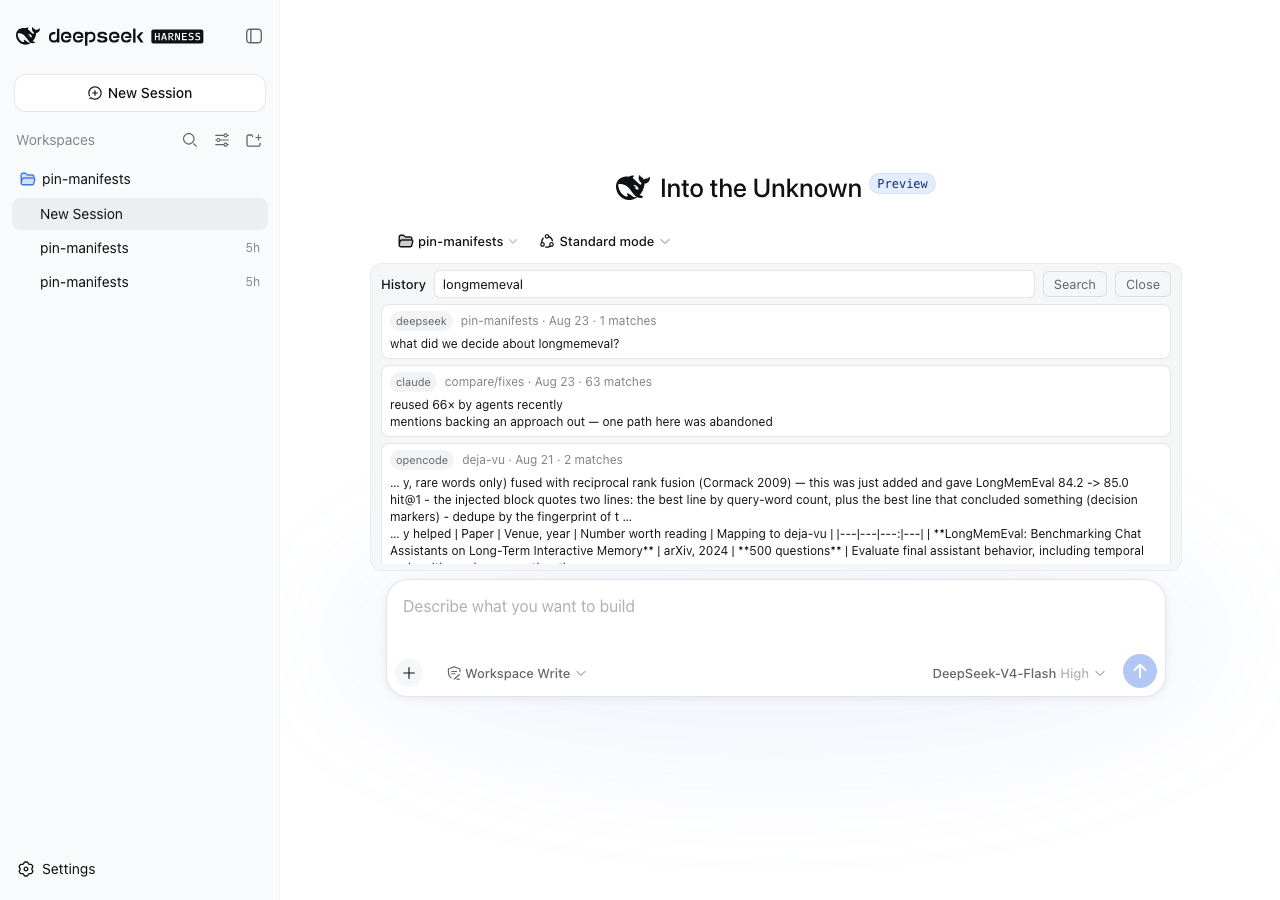
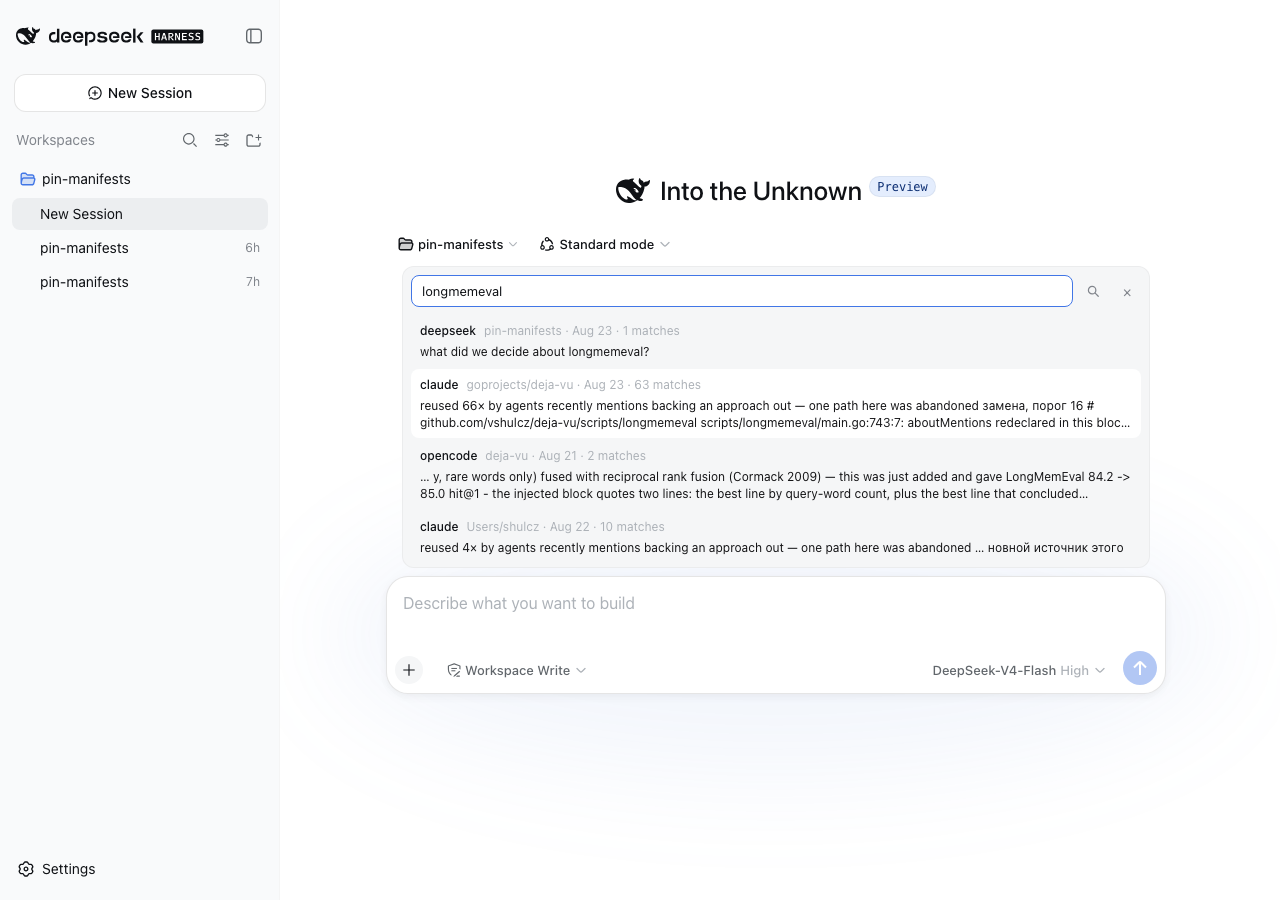
fix(dsh): the strip takes the composer's own width

diff --git a/packages/dsh-deja/client.js b/packages/dsh-deja/client.js
@@ -21,96 +21,156 @@ window.__ModuleLoader__.load({
     const { useCallback, useEffect, useRef, useState } = React;
     const h = React.createElement;
 
-    const STRIP = {
-      boxSizing: "border-box",
-      width: "100%",
-      display: "flex",
-      flexDirection: "column",
-      gap: "6px",
-      margin: "0 auto",
-      padding: "6px 10px",
-      borderRadius: "12px",
-      border: "1px solid var(--dsw-alias-border-l1)",
-      background: "var(--dsw-specific-tip)",
-    };
-    const ROW = { display: "flex", alignItems: "center", gap: "8px" };
-    const LABEL = {
-      flex: "none",
-      fontSize: "13px",
-      fontWeight: 500,
-      lineHeight: "24px",
-      color: "var(--dsw-alias-label-primary)",
-    };
-    const INPUT = {
-      flex: 1,
-      minWidth: 0,
-      height: "26px",
-      padding: "0 8px",
-      fontSize: "13px",
-      lineHeight: "20px",
-      color: "var(--dsw-alias-label-primary)",
-      background: "var(--dsw-alias-bg-base)",
-      border: "1px solid var(--dsw-alias-border-l2)",
-      borderRadius: "6px",
-      outline: "none",
-    };
-    const BUTTON = {
-      flex: "none",
-      height: "26px",
-      padding: "0 10px",
-      fontSize: "13px",
-      color: "var(--dsw-alias-label-secondary)",
-      background: "transparent",
-      border: "1px solid var(--dsw-alias-border-l2)",
-      borderRadius: "6px",
-      cursor: "pointer",
-    };
-    const NOTE = {
-      fontSize: "12px",
-      lineHeight: "18px",
-      color: "var(--dsw-alias-label-tertiary)",
-    };
-    const OUTPUT = {
-      maxHeight: "220px",
-      overflow: "auto",
-      margin: 0,
-      padding: "8px",
-      fontSize: "12px",
-      lineHeight: "18px",
-      whiteSpace: "pre-wrap",
-      wordBreak: "break-word",
-      color: "var(--dsw-alias-label-primary-dimmed)",
-      background: "var(--dsw-alias-bg-base)",
-      border: "1px solid var(--dsw-alias-border-l2)",
-      borderRadius: "8px",
-    };
+    // The composer publishes its own geometry as CSS variables, and the strip
+    // has to sit on exactly that width — otherwise it reads as a foreign
+    // element bolted above the card, which is what a hand-picked width looked
+    // like. Hover and focus need real selectors, so this is a stylesheet
+    // rather than inline styles.
+    const CSS = `
+.deja-dock {
+  box-sizing: border-box;
+  width: calc(100% - var(--dsh-composer-side-clearance) * 2 - var(--dsh-composer-dock-inset) * 4);
+  max-width: calc(var(--dsh-composer-card-max-width) - 4 * var(--dsh-composer-dock-inset));
+  margin: 0 auto;
+}
+.deja-trigger {
+  display: inline-flex;
+  align-items: center;
+  gap: 6px;
+  height: 28px;
+  padding: 0 10px;
+  border: none;
+  border-radius: 999px;
+  background: transparent;
+  color: var(--dsw-alias-label-tertiary);
+  font-size: 12px;
+  line-height: 20px;
+  cursor: pointer;
+}
+.deja-trigger:hover {
+  background: var(--dsw-alias-interactive-bg-hover);
+  color: var(--dsw-alias-label-secondary);
+}
+.deja-panel {
+  box-sizing: border-box;
+  width: 100%;
+  display: flex;
+  flex-direction: column;
+  gap: 8px;
+  padding: 8px;
+  border: 1px solid var(--dsw-alias-border-l1);
+  border-radius: 12px;
+  background: var(--dsw-specific-tip);
+}
+.deja-row {
+  display: flex;
+  align-items: center;
+  gap: 6px;
+}
+.deja-input {
+  flex: 1;
+  min-width: 0;
+  height: 30px;
+  padding: 0 10px;
+  border: 1px solid var(--dsw-alias-border-l2);
+  border-radius: 8px;
+  background: var(--dsw-alias-bg-base);
+  color: var(--dsw-alias-label-primary);
+  font-size: 13px;
+  line-height: 20px;
+  outline: none;
+}
+.deja-input:focus { border-color: var(--dsw-alias-state-business-primary); }
+.deja-input::placeholder { color: var(--dsw-alias-label-caption); }
+.deja-icon {
+  flex: none;
+  width: 28px;
+  height: 28px;
+  display: inline-flex;
+  align-items: center;
+  justify-content: center;
+  padding: 0;
+  border: none;
+  border-radius: 999px;
+  background: transparent;
+  color: var(--dsw-alias-label-tertiary);
+  font-size: 15px;
+  line-height: 1;
+  cursor: pointer;
+}
+.deja-icon:hover { background: var(--dsw-alias-interactive-bg-hover); color: var(--dsw-alias-label-secondary); }
+.deja-note {
+  padding: 0 2px;
+  color: var(--dsw-alias-label-tertiary);
+  font-size: 12px;
+  line-height: 18px;
+}
+.deja-results {
+  display: flex;
+  flex-direction: column;
+  gap: 2px;
+  max-height: 244px;
+  overflow-y: auto;
+}
+.deja-hit {
+  padding: 7px 9px;
+  border-radius: 8px;
+  cursor: pointer;
+}
+.deja-hit:hover { background: var(--dsw-alias-bg-base); }
+.deja-head {
+  display: flex;
+  align-items: baseline;
+  gap: 8px;
+  font-size: 12px;
+  line-height: 18px;
+}
+.deja-agent {
+  flex: none;
+  font-weight: 500;
+  color: var(--dsw-alias-label-primary);
+}
+.deja-meta {
+  min-width: 0;
+  color: var(--dsw-alias-label-caption);
+  white-space: nowrap;
+  overflow: hidden;
+  text-overflow: ellipsis;
+}
+.deja-snippet {
+  margin: 3px 0 0;
+  color: var(--dsw-alias-label-primary-dimmed);
+  font-size: 12px;
+  line-height: 17px;
+  overflow: hidden;
+  display: -webkit-box;
+  -webkit-box-orient: vertical;
+  -webkit-line-clamp: 2;
+}
+.deja-snippet.deja-open {
+  -webkit-line-clamp: unset;
+  white-space: pre-wrap;
+}
+`;
 
-    const ROWS = { display: "flex", flexDirection: "column", gap: "6px", maxHeight: "260px", overflow: "auto" };
-    const ROW_BOX = {
-      padding: "6px 8px",
-      borderRadius: "8px",
-      background: "var(--dsw-alias-bg-base)",
-      border: "1px solid var(--dsw-alias-border-l2)",
-      cursor: "pointer",
-    };
-    const HEAD = { display: "flex", alignItems: "center", gap: "8px", fontSize: "12px", lineHeight: "18px" };
-    const BADGE = {
-      flex: "none",
-      padding: "1px 6px",
-      borderRadius: "999px",
-      fontSize: "11px",
-      color: "var(--dsw-alias-label-secondary)",
-      background: "var(--dsw-alias-interactive-bg-hover)",
-    };
-    const META = { color: "var(--dsw-alias-label-tertiary)" };
-    const SNIPPET = {
-      margin: "4px 0 0",
-      fontSize: "12px",
-      lineHeight: "17px",
-      color: "var(--dsw-alias-label-primary-dimmed)",
-      whiteSpace: "pre-wrap",
-      wordBreak: "break-word",
-    };
+    const TAG = "dsh-deja/strip.css";
+    if (typeof document !== "undefined" && document.querySelector('style[data-plugin-css="' + TAG + '"]') === null) {
+      const tag = document.createElement("style");
+      tag.dataset.plugin = "dsh-deja";
+      tag.dataset.pluginCss = TAG;
+      tag.textContent = CSS;
+      document.head.appendChild(tag);
+    }
+
+    /** The one glyph this needs: a magnifier at the app's own stroke weight. */
+    function Glass() {
+      return h(
+        "svg",
+        { width: 14, height: 14, viewBox: "0 0 16 16", fill: "none", "aria-hidden": "true" },
+        h("circle", { cx: 7, cy: 7, r: 4.25, stroke: "currentColor", strokeWidth: 1.4 }),
+        h("path", { d: "M10.5 10.5 L14 14", stroke: "currentColor", strokeWidth: 1.4, strokeLinecap: "round" }),
+      );
+    }
 
     // parse turns what deja printed into rows. A header line names the agent,
     // the project, the date and the match count; the lines indented under it
@@ -120,13 +180,13 @@ window.__ModuleLoader__.load({
     function parse(text) {
       const rows = [];
       for (const line of String(text).split("\n")) {
-        const header = /^\[([^\]]+)\]\s+(\S+)\s+·\s+([^·]+?)\s+·\s+\S+\s+—\s+(.+)$/.exec(line);
+        const header = /^\[([^\]]+)\]\s+(\S+)\s+·\s+([^·]+?)\s+·\s+(\S+)\s+—\s+(.+)$/.exec(line);
         if (header) {
           rows.push({
             agent: header[1].trim(),
             project: header[2].trim(),
             when: header[3].trim(),
-            count: header[4].trim(),
+            count: header[5].trim(),
             body: [],
           });
           continue;
@@ -136,27 +196,28 @@ window.__ModuleLoader__.load({
       return rows;
     }
 
-    /** One past session. Collapsed it shows two lines; a click opens the rest. */
-    function Row({ row }) {
+    /** One past session: two lines of its own text, the rest on a click. */
+    function Hit({ row }) {
       const [open, setOpen] = useState(false);
-      const body = open ? row.body : row.body.slice(0, 2);
       return h(
         "div",
-        { style: ROW_BOX, onClick: () => setOpen(!open) },
+        { className: "deja-hit", onClick: () => setOpen(!open) },
         h(
           "div",
-          { style: HEAD },
-          h("span", { style: BADGE }, row.agent),
-          h("span", { style: META }, row.project + " · " + row.when + " · " + row.count),
+          { className: "deja-head" },
+          h("span", { className: "deja-agent" }, row.agent),
+          h("span", { className: "deja-meta" }, row.project + " · " + row.when + " · " + row.count),
         ),
-        body.length > 0 ? h("p", { style: SNIPPET }, body.join("\n")) : null,
+        row.body.length > 0
+          ? h("p", { className: open ? "deja-snippet deja-open" : "deja-snippet" }, row.body.join("\n"))
+          : null,
       );
     }
 
     /**
-     * HistoryStrip: collapsed it is one button, because a search box nobody
-     * asked for is noise above the composer. Open, it searches on Enter and
-     * shows one row per past session it found.
+     * HistoryStrip: collapsed it is one quiet button, because a search box
+     * nobody asked for is noise above the composer. Open, it searches on Enter
+     * and shows one row per past session it found.
      */
     function HistoryStrip({ onSearch }) {
       const [open, setOpen] = useState(false);
@@ -188,54 +249,56 @@ window.__ModuleLoader__.load({
       if (!open) {
         return h(
           "div",
-          { style: { ...STRIP, padding: "4px 10px" } },
+          { className: "deja-dock" },
           h(
-            "div",
-            { style: ROW },
-            h(
-              "button",
-              {
-                type: "button",
-                style: BUTTON,
-                onClick: () => setOpen(true),
-              },
-              "Search your other agents' history",
-            ),
+            "button",
+            { type: "button", className: "deja-trigger", onClick: () => setOpen(true) },
+            h(Glass),
+            "Your history from the other agents",
           ),
         );
       }
 
       return h(
         "div",
-        { style: STRIP },
+        { className: "deja-dock" },
         h(
           "div",
-          { style: ROW },
-          h("span", { style: LABEL }, "History"),
-          h("input", {
-            ref: inputRef,
-            style: INPUT,
-            value: query,
-            placeholder: "an error string, a file path, a flag",
-            onChange: (event) => setQuery(event.target.value),
-            onKeyDown: (event) => {
-              if (event.key === "Enter") {
-                event.preventDefault();
-                void run();
-              }
-              if (event.key === "Escape") setOpen(false);
-            },
-          }),
-          h("button", { type: "button", style: BUTTON, onClick: () => void run() }, "Search"),
-          h("button", { type: "button", style: BUTTON, onClick: () => setOpen(false) }, "Close"),
+          { className: "deja-panel" },
+          h(
+            "div",
+            { className: "deja-row" },
+            h("input", {
+              ref: inputRef,
+              className: "deja-input",
+              value: query,
+              placeholder: "an error string, a file path, a flag",
+              onChange: (event) => setQuery(event.target.value),
+              onKeyDown: (event) => {
+                if (event.key === "Enter") {
+                  event.preventDefault();
+                  void run();
+                }
+                if (event.key === "Escape") setOpen(false);
+              },
+            }),
+            h(
+              "button",
+              { type: "button", className: "deja-icon", title: "Search", onClick: () => void run() },
+              h(Glass),
+            ),
+            h("button", { type: "button", className: "deja-icon", title: "Close", onClick: () => setOpen(false) }, "×"),
+          ),
+          state.kind === "searching"
+            ? h("div", { className: "deja-note" }, "searching this machine's history…")
+            : null,
+          state.kind === "failed" ? h("div", { className: "deja-note" }, "search failed: " + state.text) : null,
+          state.kind === "done"
+            ? state.rows.length > 0
+              ? h("div", { className: "deja-results" }, state.rows.map((row, i) => h(Hit, { key: i, row })))
+              : h("div", { className: "deja-note" }, state.text)
+            : null,
         ),
-        state.kind === "searching" ? h("div", { style: NOTE }, "searching this machine's history…") : null,
-        state.kind === "failed" ? h("div", { style: NOTE }, "search failed: " + state.text) : null,
-        state.kind === "done"
-          ? state.rows.length > 0
-            ? h("div", { style: ROWS }, state.rows.map((row, i) => h(Row, { key: i, row })))
-            : h("div", { style: NOTE }, state.text)
-          : null,
       );
     }
 
